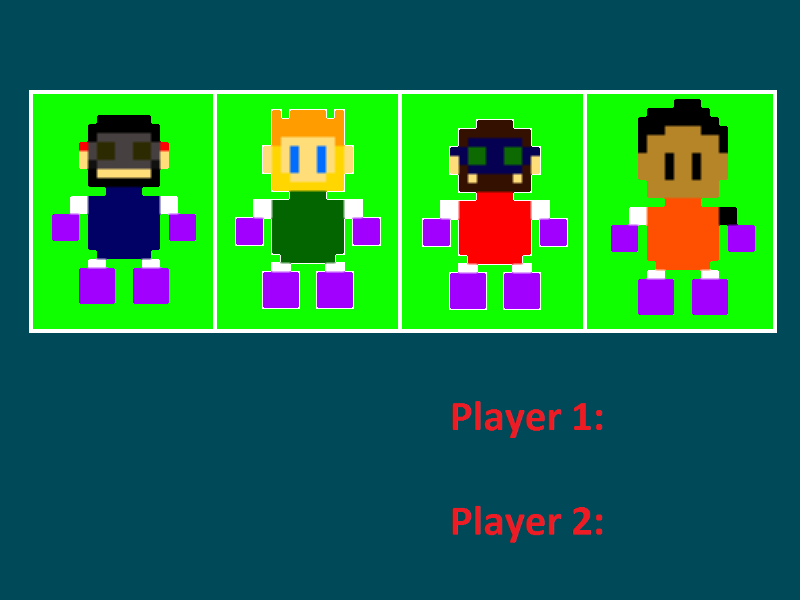
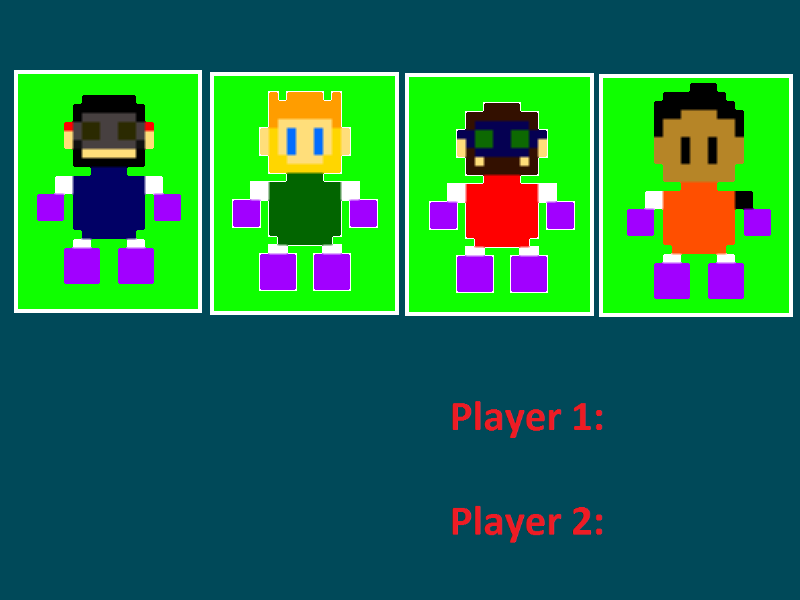
oi

Changed region(s): [[0.0, 0.09, 1.0, 0.57]]

diff --git a/ComecaDeNovo/MenuPersonagens.py b/ComecaDeNovo/MenuPersonagens.py
@@ -12,18 +12,23 @@ crashed = False
 menu_Img_personagens=pygame.image.load('img\MenuPersonagens\Menu escolha-1.png')
 Escolhendo_personagem_img_1=pygame.image.load('img\MenuPersonagens\Menu escolha-5.png')
 Escolhendo_personagem_img_2=pygame.image.load('img\MenuPersonagens\Menu escolha-6.png')
+Escolhendo_personagem_img_3=pygame.image.load('img\MenuPersonagens\Menu escolha-7.png')
 
-Img_personagem1=pygame.image.load('img\MenuPersonagens\Delc.png')
-Img_personagem1_selecionado=pygame.image.load('img\MenuPersonagens\Delc_Selecionado.png')
+Img_personagem1=pygame.image.load('img\MenuPersonagens\Selecao_do_Player_Branco.png')
+Img_personagem1_selecionado=pygame.image.load('img\MenuPersonagens\Selecao_do_Player.png')
+Img_personagem1_32x32=pygame.image.load('img\Sprites personagens\Delc.png')
 
-Img_personagem2=pygame.image.load('img\MenuPersonagens\Gabriel.png')
-Img_personagem2_selecionado=pygame.image.load('img\MenuPersonagens\Gabriel_Selecionado.png')
+Img_personagem2=pygame.image.load('img\MenuPersonagens\Selecao_do_Player_Branco.png')
+Img_personagem2_selecionado=pygame.image.load('img\MenuPersonagens\Selecao_do_Player.png')
+Img_personagem2_32x32=pygame.image.load('img\Sprites personagens\Gabriel.png')
 
-Img_personagem3=pygame.image.load('img\MenuPersonagens\Matheus.png')
-Img_personagem3_selecionado=pygame.image.load('img\MenuPersonagens\Matheus_Selecionado.png')
+Img_personagem3=pygame.image.load('img\MenuPersonagens\Selecao_do_Player_Branco.png')
+Img_personagem3_selecionado=pygame.image.load('img\MenuPersonagens\Selecao_do_Player.png')
+Img_personagem3_32x32=pygame.image.load('img\Sprites personagens\Matheus.png')
 
-Img_personagem4=pygame.image.load('img\MenuPersonagens\Vini.png')
-Img_personagem4_selecionado=pygame.image.load('img\MenuPersonagens\Vini_Selecionado.png')
+Img_personagem4=pygame.image.load('img\MenuPersonagens\Selecao_do_Player_Branco.png')
+Img_personagem4_selecionado=pygame.image.load('img\MenuPersonagens\Selecao_do_Player.png')
+Img_personagem4_32x32=pygame.image.load('img\Sprites personagens\Vini.png')
 
 Img_Inciar_jogo=pygame.image.load('img\MenuPersonagens\Iniciar_jogo.png')
 Img_Voltar=pygame.image.load('img\MenuPersonagens\Voltar.png')
@@ -34,15 +39,21 @@ Img_Inciar_jogo_selecionada=pygame.image.load('img\MenuPersonagens\Iniciar_jogo_
 Img_Player_Selecionado1=pygame.image.load('img\MenuPersonagens\selecionando_player1.png')
 Img_Player_Selecionado2=pygame.image.load('img\MenuPersonagens\selecionando_player2.png')
 
-def Menu_Personagens(Imagem_Estatica,Escolhendo_personagem,Personagem1,Personagem2,Personagem3,Personagem4,Iniciar_Jogo,Voltar):
+QuadradoPreto1_img=pygame.image.load('img\MenuPersonagens\QuadradoPreto.png')
+QuadradoPreto2_img=pygame.image.load('img\MenuPersonagens\QuadradoPreto.png')
+
+def Menu_Personagens(Imagem_Estatica,Escolhendo_personagem,Personagem1,Personagem2,Personagem3,Personagem4,Iniciar_Jogo,Voltar,quadrado1,quadrado2):
 	gameDisplay.blit(Imagem_Estatica,(0,0))
-	gameDisplay.blit(pygame.transform.scale(Personagem1,(175,220)),(12.5,65))
-	gameDisplay.blit(pygame.transform.scale(Personagem2,(175,220)),(212.5,65))
-	gameDisplay.blit(pygame.transform.scale(Personagem3,(175,220)),(412.5,65))
-	gameDisplay.blit(pygame.transform.scale(Personagem4,(175,220)),(612.5,65))
+	gameDisplay.blit(Personagem1,(14,70))
+	gameDisplay.blit(pygame.transform.scale(Personagem2,(190,246)),(210,71))
+	gameDisplay.blit(pygame.transform.scale(Personagem3,(190,246)),(405,72))
+	gameDisplay.blit(pygame.transform.scale(Personagem4,(194,246)),(599,72))
+	gameDisplay.blit(quadrado1,(600,370))
+	gameDisplay.blit(quadrado2,(600,470))
 	gameDisplay.blit(Iniciar_Jogo,(100,400))
 	gameDisplay.blit(Voltar,(100,500))
 	gameDisplay.blit(Escolhendo_personagem,(30,15))
+
 
 marcacao_cima_baixo=1
 marcacao=1
@@ -51,7 +62,7 @@ marcamenu=0
 marcacao_player=1
 ImagemJogador_1=0
 ImagemJogador_2=0
-Imagem_menu=Menu_Personagens(menu_Img_personagens,Escolhendo_personagem_img_1,Img_personagem1_selecionado,Img_personagem2,Img_personagem3,Img_personagem4,Img_Inciar_jogo,Img_Voltar)
+Imagem_menu=Menu_Personagens(menu_Img_personagens,Escolhendo_personagem_img_1,Img_personagem1_selecionado,Img_personagem2,Img_personagem3,Img_personagem4,Img_Inciar_jogo,Img_Voltar,QuadradoPreto1_img,QuadradoPreto2_img)
 
 #MarcaPersonagem | 1 = Delc| 2 = Gabriel | 3 = Matheus | 4 = Vini
 #MarcaMenu |
@@ -62,119 +73,130 @@ while not crashed:
 		if event.type==pygame.KEYDOWN:
 			#Apertando Direita
 			if marcacao==1  and event.key == pygame.K_RIGHT:
-				Imagem_menu=Menu_Personagens(menu_Img_personagens,Escolhendo_personagem_img_1,Img_personagem1,Img_personagem2_selecionado,Img_personagem3,Img_personagem4,Img_Inciar_jogo,Img_Voltar)
+				Imagem_menu=Menu_Personagens(menu_Img_personagens,Escolhendo_personagem_img_1,Img_personagem1,Img_personagem2_selecionado,Img_personagem3,Img_personagem4,Img_Inciar_jogo,Img_Voltar,QuadradoPreto1_img,QuadradoPreto2_img)
 				marcacao=2
 				marcacao_cima_baixo=1
 				marcapersonagem=2
 			elif marcacao==2 and event.key==pygame.K_RIGHT:
-				Imagem_menu=Menu_Personagens(menu_Img_personagens,Escolhendo_personagem_img_1,Img_personagem1,Img_personagem2,Img_personagem3_selecionado,Img_personagem4,Img_Inciar_jogo,Img_Voltar)
+				Imagem_menu=Menu_Personagens(menu_Img_personagens,Escolhendo_personagem_img_1,Img_personagem1,Img_personagem2,Img_personagem3_selecionado,Img_personagem4,Img_Inciar_jogo,Img_Voltar,QuadradoPreto1_img,QuadradoPreto2_img)
 				marcacao=3
 				marcacao_cima_baixo=1
 				marcapersonagem=3
 			elif marcacao==3 and event.key==pygame.K_RIGHT:
-				Imagem_menu=Menu_Personagens(menu_Img_personagens,Escolhendo_personagem_img_1,Img_personagem1,Img_personagem2,Img_personagem3,Img_personagem4_selecionado,Img_Inciar_jogo,Img_Voltar)
+				Imagem_menu=Menu_Personagens(menu_Img_personagens,Escolhendo_personagem_img_1,Img_personagem1,Img_personagem2,Img_personagem3,Img_personagem4_selecionado,Img_Inciar_jogo,Img_Voltar,QuadradoPreto1_img,QuadradoPreto2_img)
 				marcacao=4
 				marcacao_cima_baixo=1
 				marcapersonagem=4
 			#Apertando Esquerda
 			if marcacao==2 and event.key == pygame.K_LEFT:
-				Imagem_menu=Menu_Personagens(menu_Img_personagens,Escolhendo_personagem_img_1,Img_personagem1_selecionado,Img_personagem2,Img_personagem3,Img_personagem4,Img_Inciar_jogo,Img_Voltar)
+				Imagem_menu=Menu_Personagens(menu_Img_personagens,Escolhendo_personagem_img_1,Img_personagem1_selecionado,Img_personagem2,Img_personagem3,Img_personagem4,Img_Inciar_jogo,Img_Voltar,QuadradoPreto1_img,QuadradoPreto2_img)
 				marcacao=1
 				marcacao_cima_baixo=1
 				marcapersonagem=1
 			elif marcacao==3 and event.key == pygame.K_LEFT:
-				Imagem_menu=Menu_Personagens(menu_Img_personagens,Escolhendo_personagem_img_1,Img_personagem1,Img_personagem2_selecionado,Img_personagem3,Img_personagem4,Img_Inciar_jogo,Img_Voltar)
+				Imagem_menu=Menu_Personagens(menu_Img_personagens,Escolhendo_personagem_img_1,Img_personagem1,Img_personagem2_selecionado,Img_personagem3,Img_personagem4,Img_Inciar_jogo,Img_Voltar,QuadradoPreto1_img,QuadradoPreto2_img)
 				marcacao=2
 				marcacao_cima_baixo=1
 				marcapersonagem=2
 			elif marcacao==4 and event.key == pygame.K_LEFT:
-				Imagem_menu=Menu_Personagens(menu_Img_personagens,Escolhendo_personagem_img_1,Img_personagem1,Img_personagem2,Img_personagem3_selecionado,Img_personagem4,Img_Inciar_jogo,Img_Voltar)
+				Imagem_menu=Menu_Personagens(menu_Img_personagens,Escolhendo_personagem_img_1,Img_personagem1,Img_personagem2,Img_personagem3_selecionado,Img_personagem4,Img_Inciar_jogo,Img_Voltar,QuadradoPreto1_img,QuadradoPreto2_img)
 				marcacao=3
 				marcacao_cima_baixo=1
 				marcapersonagem=3
 			#Apertando Pra Baixo
 			if marcacao_cima_baixo == 1 and event.key == pygame.K_DOWN:
-				Imagem_menu=Menu_Personagens(menu_Img_personagens,Escolhendo_personagem_img_1,Img_personagem1,Img_personagem2,Img_personagem3,Img_personagem4,Img_Inciar_jogo_selecionada,Img_Voltar)
+				Imagem_menu=Menu_Personagens(menu_Img_personagens,Escolhendo_personagem_img_1,Img_personagem1,Img_personagem2,Img_personagem3,Img_personagem4,Img_Inciar_jogo_selecionada,Img_Voltar,QuadradoPreto1_img,QuadradoPreto2_img)
 				marcacao_cima_baixo=2
 				marcacao=1
 				marcamenu=1
 				marcapersonagem=0
-			elif marcacao_cima_baixo == 2 and event.key == pygame.K_DOWN:
-				Imagem_menu=Menu_Personagens(menu_Img_personagens,Escolhendo_personagem_img_1,Img_personagem1,Img_personagem2,Img_personagem3,Img_personagem4,Img_Inciar_jogo,Img_Voltar_selecionada)
-				marcacao_cima_baixo=1
-				marcamenu=2
-				marcapersonagem=0
+			# elif marcacao_cima_baixo == 2 and event.key == pygame.K_DOWN:
+			# 	Imagem_menu=Menu_Personagens(menu_Img_personagens,Escolhendo_personagem_img_1,Img_personagem1,Img_personagem2,Img_personagem3,Img_personagem4,Img_Inciar_jogo,Img_Voltar_selecionada,QuadradoPreto1_img,QuadradoPreto2_img)
+			# 	marcacao_cima_baixo=1
+			# 	marcamenu=2
+			# 	marcapersonagem=0
 			#Apertando Pra Cima
-			if marcacao_cima_baixo == 1 and event.key == pygame.K_UP:
-				Imagem_menu=Menu_Personagens(menu_Img_personagens,Escolhendo_personagem_img_1,Img_personagem1,Img_personagem2,Img_personagem3,Img_personagem4,Img_Inciar_jogo_selecionada,Img_Voltar)
-				marcacao_cima_baixo=2
-				marcamenu=1
-				marcapersonagem=0
+			# if marcacao_cima_baixo == 1 and event.key == pygame.K_UP:
+			# 	Imagem_menu=Menu_Personagens(menu_Img_personagens,Escolhendo_personagem_img_1,Img_personagem1,Img_personagem2,Img_personagem3,Img_personagem4,Img_Inciar_jogo_selecionada,Img_Voltar,QuadradoPreto1_img,QuadradoPreto2_img)
+			# 	marcacao_cima_baixo=2
+			# 	marcamenu=1
+			# 	marcapersonagem=0
 			elif marcacao_cima_baixo==2 and event.key==pygame.K_UP:
-				Imagem_menu=Menu_Personagens(menu_Img_personagens,Escolhendo_personagem_img_1,Img_personagem1_selecionado,Img_personagem2,Img_personagem3,Img_personagem4,Img_Inciar_jogo,Img_Voltar)
+				Imagem_menu=Menu_Personagens(menu_Img_personagens,Escolhendo_personagem_img_1,Img_personagem1_selecionado,Img_personagem2,Img_personagem3,Img_personagem4,Img_Inciar_jogo,Img_Voltar,QuadradoPreto1_img,QuadradoPreto2_img)
 				marcapersonagem=1
 				marcamenu=0
 				marcacao_cima_baixo=1
+
 			#Apertando Enter Personagem
 			if marcapersonagem==1 and event.key==pygame.K_RETURN and marcacao_player==1:
 				marcacao_player=2
 				ImagemJogador_1=1 #Delc
 				Img_personagem1=Img_personagem1_selecionado
 				Escolhendo_personagem_img_1=Escolhendo_personagem_img_2
+				QuadradoPreto1_img=Img_personagem1_32x32
 				img1_player1 = "img\Sprites personagens\Delc_32x32.png"
-				Imagem_menu=Menu_Personagens(menu_Img_personagens,Escolhendo_personagem_img_1,Img_personagem1_selecionado,Img_personagem2,Img_personagem3,Img_personagem4,Img_Inciar_jogo,Img_Voltar)
-				print(marcacao_player)
+				Imagem_menu=Menu_Personagens(menu_Img_personagens,Escolhendo_personagem_img_1,Img_personagem1_selecionado,Img_personagem2,Img_personagem3,Img_personagem4,Img_Inciar_jogo,Img_Voltar,QuadradoPreto1_img,QuadradoPreto2_img)
+				
 			elif marcapersonagem==2 and event.key==pygame.K_RETURN and marcacao_player==1:
 				marcacao_player=2
 				ImagemJogador_1=2 #Gabriel
 				Img_personagem2=Img_personagem2_selecionado
 				Escolhendo_personagem_img_1=Escolhendo_personagem_img_2
+				QuadradoPreto1_img=Img_personagem2_32x32
 				img1_player1 = "img\Sprites personagens\Gabriel_32x32.png"
-				Imagem_menu=Menu_Personagens(menu_Img_personagens,Escolhendo_personagem_img_1,Img_personagem1,Img_personagem2_selecionado,Img_personagem3,Img_personagem4,Img_Inciar_jogo,Img_Voltar)
-				print(marcacao_player)
+				Imagem_menu=Menu_Personagens(menu_Img_personagens,Escolhendo_personagem_img_1,Img_personagem1,Img_personagem2_selecionado,Img_personagem3,Img_personagem4,Img_Inciar_jogo,Img_Voltar,QuadradoPreto1_img,QuadradoPreto2_img)
+				
 			elif marcapersonagem==3 and event.key==pygame.K_RETURN and marcacao_player==1:
 				marcacao_player=2
 				ImagemJogador_1=3 #Matheus
 				Img_personagem3=Img_personagem3_selecionado
 				Escolhendo_personagem_img_1=Escolhendo_personagem_img_2
+				QuadradoPreto1_img=Img_personagem3_32x32
 				img1_player1 = "img\Sprites personagens\Matheus_32x32.png"
-				Imagem_menu=Menu_Personagens(menu_Img_personagens,Escolhendo_personagem_img_1,Img_personagem1,Img_personagem2,Img_personagem3_selecionado,Img_personagem4,Img_Inciar_jogo,Img_Voltar)
-				print(marcacao_player)
+				Imagem_menu=Menu_Personagens(menu_Img_personagens,Escolhendo_personagem_img_1,Img_personagem1,Img_personagem2,Img_personagem3_selecionado,Img_personagem4,Img_Inciar_jogo,Img_Voltar,QuadradoPreto1_img,QuadradoPreto2_img)
+				
 			elif marcapersonagem==4 and event.key==pygame.K_RETURN and marcacao_player==1:
 				marcacao_player=2
 				ImagemJogador_1=4 #Vini
 				Img_personagem4=Img_personagem4_selecionado
 				Escolhendo_personagem_img_1=Escolhendo_personagem_img_2
+				QuadradoPreto1_img=Img_personagem4_32x32
 				img1_player1 = "img\Sprites personagens\Vini_32x32.png"
-				Imagem_menu=Menu_Personagens(menu_Img_personagens,Escolhendo_personagem_img_1,Img_personagem1,Img_personagem2,Img_personagem3,Img_personagem4_selecionado,Img_Inciar_jogo,Img_Voltar)
-				print(marcacao_player)
-
+				Imagem_menu=Menu_Personagens(menu_Img_personagens,Escolhendo_personagem_img_1,Img_personagem1,Img_personagem2,Img_personagem3,Img_personagem4_selecionado,Img_Inciar_jogo,Img_Voltar,QuadradoPreto1_img,QuadradoPreto2_img)
 
 			#PLAYER2
 			if marcapersonagem==1 and event.key==pygame.K_SPACE and marcacao_player==2:
 				marcacao_player=3
 				ImagemJogador_2=1 #Delc
 				Img_personagem1=Img_personagem1_selecionado
+				QuadradoPreto2_img=Img_personagem1_32x32
+				Escolhendo_personagem_img_1=Escolhendo_personagem_img_3
 				img2_player2 = "img\Sprites personagens\Delc_32x32.png"
-				Imagem_menu=Menu_Personagens(menu_Img_personagens,Escolhendo_personagem_img_1,Img_personagem1_selecionado,Img_personagem2,Img_personagem3,Img_personagem4,Img_Inciar_jogo,Img_Voltar)
+				Imagem_menu=Menu_Personagens(menu_Img_personagens,Escolhendo_personagem_img_1,Img_personagem1_selecionado,Img_personagem2,Img_personagem3,Img_personagem4,Img_Inciar_jogo,Img_Voltar,QuadradoPreto1_img,QuadradoPreto2_img)
 			elif marcapersonagem==2 and event.key==pygame.K_SPACE and marcacao_player==2:
 				marcacao_player=3
 				ImagemJogador_2=2 #Gabriel
 				Img_personagem2=Img_personagem2_selecionado
+				QuadradoPreto2_img=Img_personagem2_32x32
+				Escolhendo_personagem_img_1=Escolhendo_personagem_img_3
 				img2_player2 = "img\Sprites personagens\Gabriel_32x32.png"
-				Imagem_menu=Menu_Personagens(menu_Img_personagens,Escolhendo_personagem_img_1,Img_personagem1,Img_personagem2_selecionado,Img_personagem3,Img_personagem4,Img_Inciar_jogo,Img_Voltar)
+				Imagem_menu=Menu_Personagens(menu_Img_personagens,Escolhendo_personagem_img_1,Img_personagem1,Img_personagem2_selecionado,Img_personagem3,Img_personagem4,Img_Inciar_jogo,Img_Voltar,QuadradoPreto1_img,QuadradoPreto2_img)
 			elif marcapersonagem==3 and event.key==pygame.K_SPACE and marcacao_player==2:
 				marcacao_player=3
 				ImagemJogador_2=3 #Matheus
 				Img_personagem3=Img_personagem3_selecionado
+				QuadradoPreto2_img=Img_personagem3_32x32
+				Escolhendo_personagem_img_1=Escolhendo_personagem_img_3
 				img2_player2 = "img\Sprites personagens\Matheus_32x32.png"
-				Imagem_menu=Menu_Personagens(menu_Img_personagens,Escolhendo_personagem_img_1,Img_personagem1,Img_personagem2,Img_personagem3_selecionado,Img_personagem4,Img_Inciar_jogo,Img_Voltar)
+				Imagem_menu=Menu_Personagens(menu_Img_personagens,Escolhendo_personagem_img_1,Img_personagem1,Img_personagem2,Img_personagem3_selecionado,Img_personagem4,Img_Inciar_jogo,Img_Voltar,QuadradoPreto1_img,QuadradoPreto2_img)
 			elif marcapersonagem==4 and event.key==pygame.K_SPACE and marcacao_player==2:
 				marcacao_player=3
 				ImagemJogador_2=4 #Vini
 				Img_personagem4=Img_personagem4_selecionado
+				QuadradoPreto2_img=Img_personagem4_32x32
+				Escolhendo_personagem_img_1=Escolhendo_personagem_img_3
 				img2_player2 = "img\Sprites personagens\Vini_32x32.png"
-				Imagem_menu=Menu_Personagens(menu_Img_personagens,Escolhendo_personagem_img_1,Img_personagem1,Img_personagem2,Img_personagem3,Img_personagem4_selecionado,Img_Inciar_jogo,Img_Voltar)
+				Imagem_menu=Menu_Personagens(menu_Img_personagens,Escolhendo_personagem_img_1,Img_personagem1,Img_personagem2,Img_personagem3,Img_personagem4_selecionado,Img_Inciar_jogo,Img_Voltar,QuadradoPreto1_img,QuadradoPreto2_img)
 
 
 

diff --git a/ComecaDeNovo/TentandoCOmTile.py b/ComecaDeNovo/TentandoCOmTile.py
@@ -3,9 +3,9 @@ import sys
 from setting import *
 from sprites import *
 import random
-from menupersonagens import *
 
-img1_player1="Gabriel.png"
+
+img1_player1="Gabriel_32x32.png"
 img2_player2="bomberman 1.png"
 
 class Game:
@@ -35,8 +35,8 @@ class Game:
         self.walls = pg.sprite.Group()
         self.random_wall=pg.sprite.Group()
         self.bombas=pg.sprite.Group()
-        self.player1 = Player(self, 1, 1,img1)
-        self.player2 = Player(self,13,9,img2)
+        self.player1 = Player(self, 1, 1,img1_player1)
+        self.player2 = Player(self,13,9,img2_player2)
         for x in range(1, 15):
             Wall(self, x, 0)
         for y in range (0,11):
